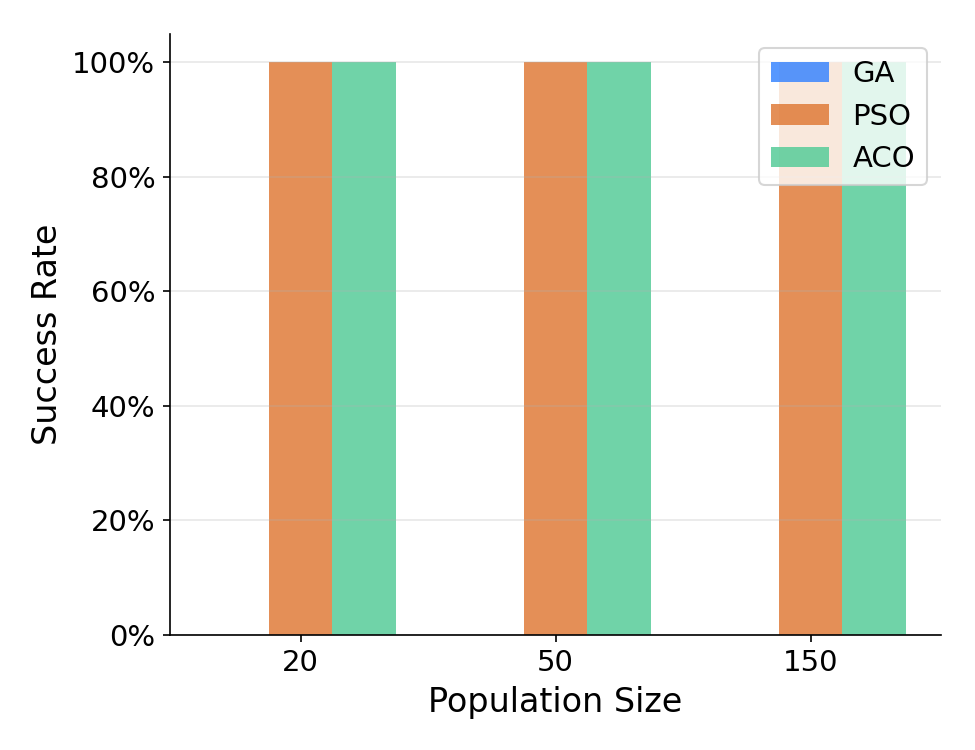
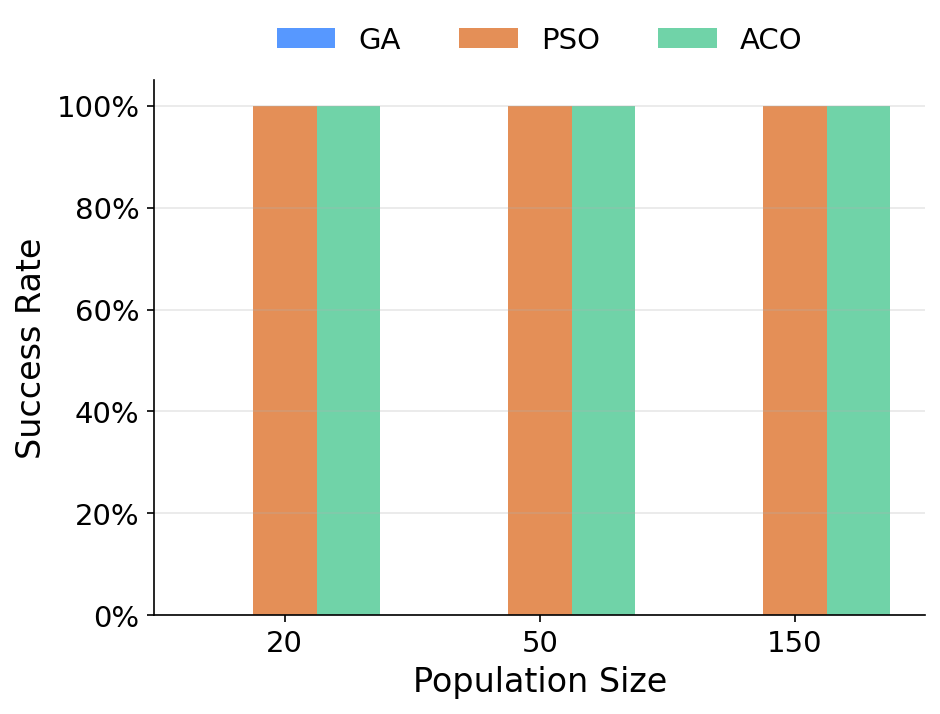
Improve legend positioning and adjust figure saving parameters for better output

Changed region(s): [[0.0, 0.0308, 0.9872, 0.986]]

diff --git a/scripts/figures.py b/scripts/figures.py
@@ -200,14 +200,14 @@ def figure_success_rate(rows: list, out_dir: str) -> None:
         ax.set_xticklabels([str(p) for p in pop_sizes])
         ax.set_ylim(0, 1.05)
         ax.yaxis.set_major_formatter(plt.FuncFormatter(lambda v, _: f"{v:.0%}"))
-        ax.legend()
+        ax.legend(loc="lower center", bbox_to_anchor=(0.5, 1.0), ncol=3, frameon=False)
         ax.grid(True, axis="y", alpha=0.3)
         ax.spines[["top", "right"]].set_visible(False)
 
         slug = MAZE_SLUGS.get(maze, maze.lower().replace(" ", "_"))
         fname = os.path.join(out_dir, f"success_rate_{slug}.png")
         plt.tight_layout()
-        plt.savefig(fname, dpi=150)
+        plt.savefig(fname, dpi=150, bbox_inches="tight")
         plt.close(fig)
         print(f"  Saved {fname}")
 